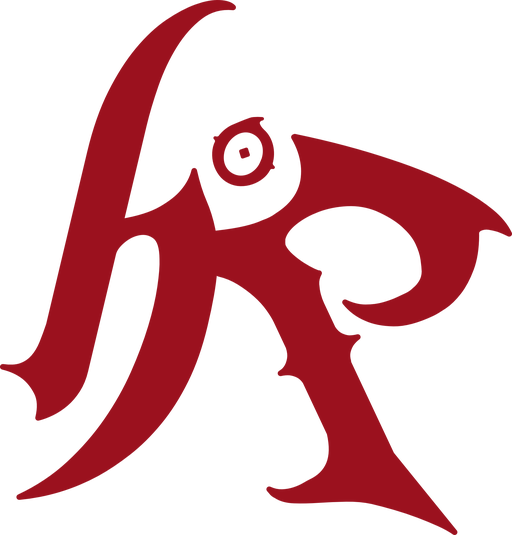
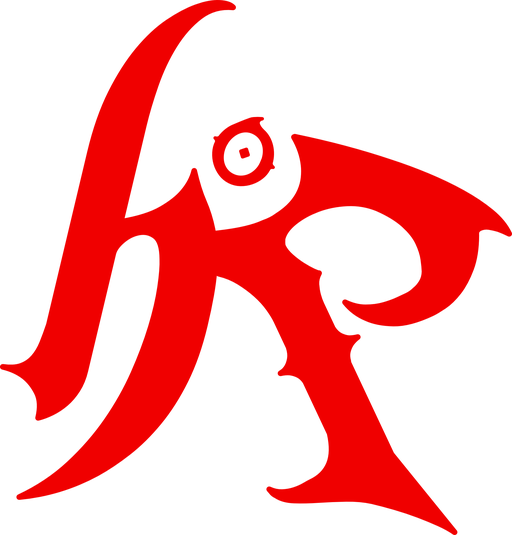
Publish Haki site - 2026-11-16 16:25

Changed region(s): [[0.0, 0.0, 1.0, 1.0]]

diff --git a/assets/css/styles.css b/assets/css/styles.css
@@ -176,10 +176,10 @@
   --ink-2: #171715;
   --paper: #f6f6f3;
   --paper-2: #ecece8;
-  --red: #9b111e;
-  --red-deep: #6b0f1a;
-  --red-soft: #c1121f;
-  --red-tint: rgba(155, 17, 30, 0.10);
+  --red: #f00000;
+  --red-deep: #b00000;
+  --red-soft: #ff3333;
+  --red-tint: rgba(240, 0, 0, 0.10);
   --muted: #6d6961;
   --muted-dark: #aaa59a;
   --line: rgba(13, 13, 12, 0.16);
@@ -210,10 +210,10 @@
     --ink-2: oklch(0.19 0.005 95);
     --paper: oklch(0.965 0.003 95);
     --paper-2: oklch(0.93 0.006 95);
-    --red: oklch(0.45 0.22 15);
-    --red-deep: oklch(0.35 0.20 15);
-    --red-soft: oklch(0.58 0.20 15);
-    --red-tint: oklch(0.45 0.22 15 / 0.10);
+    --red: oklch(0.60 0.25 25);
+    --red-deep: oklch(0.45 0.22 25);
+    --red-soft: oklch(0.72 0.22 25);
+    --red-tint: oklch(0.60 0.25 25 / 0.10);
     --muted: oklch(0.48 0.008 92);
     --muted-dark: oklch(0.73 0.008 92);
   }
